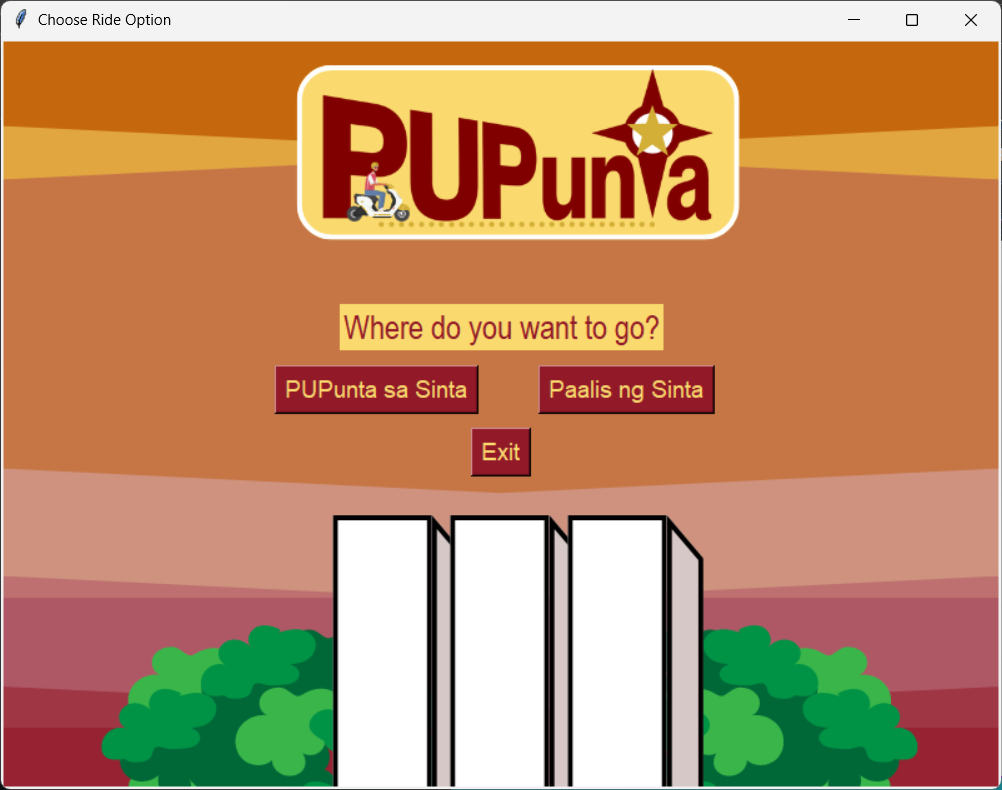
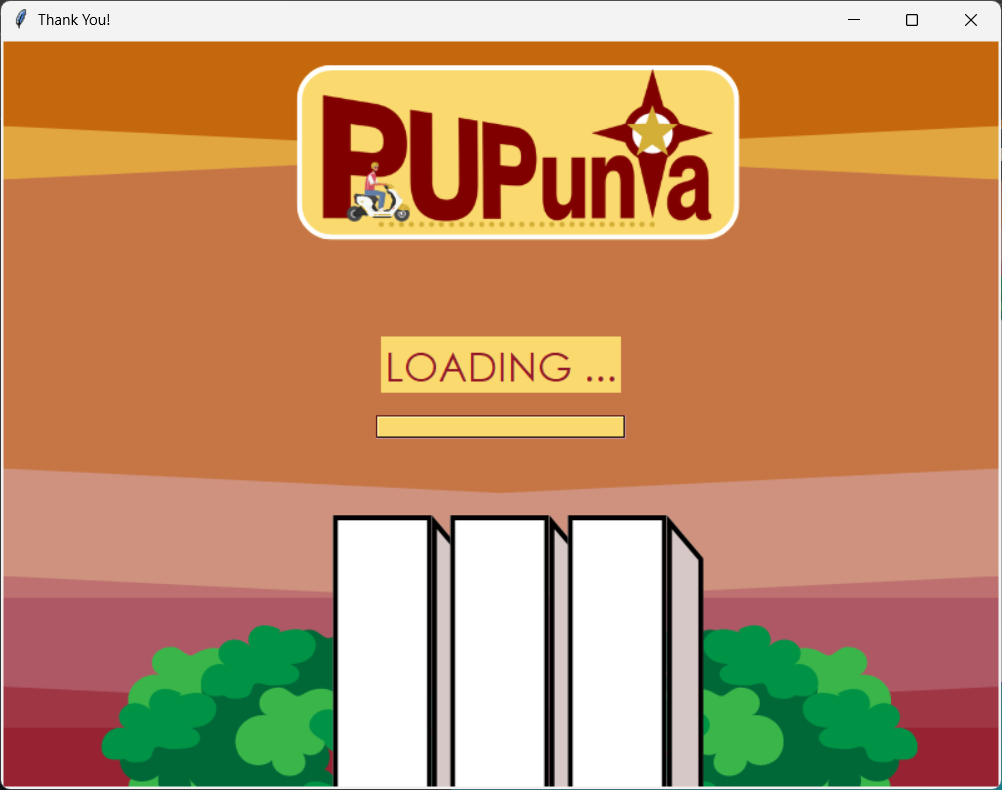
Refactor code structure for improved readability and maintainability

Changed region(s): [[0.2475, 0.3646, 0.7116, 0.6076], [0.0309, 0.0, 0.1547, 0.0304]]

diff --git a/ceianreigh-cepillo.html b/ceianreigh-cepillo.html
@@ -146,6 +146,7 @@
       <p class="section-label">Selected work</p>
       <h2 class="section-heading">Projects</h2>
       <div class="projects-grid">
+        <!--Project 1-->
         <div class="project-card reveal">
           <div class="project-img">
             <img src="AI_File_Organizer.png" alt="Project name">
@@ -162,6 +163,7 @@
             <a href="https://github.com/ceianreigh/AI_FileOrganizer" class="project-link">View project</a>
           </div>
         </div>
+        <!--Project 2-->
         <div class="project-card reveal">
           <div class="project-img">
             <img src="PUPunta.png" alt="Project name">
@@ -178,6 +180,7 @@
             <a href="https://github.com/ceianreigh/PUPunta-Ride-Booking-App" class="project-link">View project</a>
           </div>
         </div>
+        <!--Project 3-->
         <div class="project-card reveal">
           <div class="project-img">
             <img src="CTranslator.png" alt="Project name">
@@ -192,6 +195,24 @@
               The application includes a two-window flow with a welcome screen, custom icons, and styled backgrounds.
             </p>
             <a href="https://github.com/ceianreigh/translator_final_project" class="project-link">View project</a>
+          </div>
+        </div>
+        <!--Project 4-->
+        </div>
+        <div class="project-card reveal">
+          <div class="project-img">
+            <img src="User_Info.png" alt="Project name">
+            <div class="project-img-accent"></div>
+          </div>
+          <div class="project-body">
+            <p class="project-type">Application · Development</p>
+            <h3 class="project-name">User Information App</h3>
+            <p class="project-desc">
+              User Information is a beginner-friendly Python Tkinter desktop app that uses a structured form to collect and display user details. 
+              Users input their full name, age, and complete address, then confirm their accuracy via an agreement checkbox. 
+              A confirmation window allows for final review or editing before a summary popup is shown.
+            </p>
+            <a href="https://github.com/ceianreigh/user_information" class="project-link">View project</a>
           </div>
         </div>
       </div>